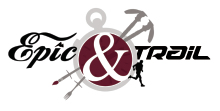
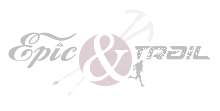
image en fond de label

Changed region(s): [[0.0273, 0.0541, 0.9545, 0.8919]]

diff --git a/epicchallenge.cpp b/epicchallenge.cpp
@@ -42,10 +42,33 @@ void EpicChallenge::init()
     m_cadenceur=new QTimer();
     t_0=QTime::currentTime();
 
-    QPalette sample_palette;
+    /*QPalette sample_palette;
     sample_palette.setColor(QPalette::Window, QColor(121,248,248,255));
     ui->challengeLabel->setAutoFillBackground(true);
-    ui->challengeLabel->setPalette(sample_palette);
+    ui->challengeLabel->setPalette(sample_palette);*/
+
+
+    // [1] The picture is not repeated, can be zoomed freely
+    ui->challengeLabel->setStyleSheet("QLabel{"
+                             "border-image:url(:/img/pictures/background.jpg) 4 4 4 4 stretch stretch;"
+                            "color:blue;"
+                             "}");
+/*
+         // [2] The picture is not repeated, the size is fixed
+    ui->label_2->setStyleSheet("QLabel{"
+                               "background-image:url(:/images/bd.png);"
+                               "background-position:top right;"
+                               "background-origin:content;"
+                               "background-repeat:none;"
+                               "}");*/
+/*
+         // [3] The picture is not repeated, the zoom ratio can be set, and the dynamic zoom is not allowed
+    QImage* img = new QImage;
+    img->load(QString(":/img/pictures/background.jpg"));
+    QImage scaledimg;
+    scaledimg = img->scaled(ui->challengeLabel->width(),ui->challengeLabel->height(),Qt::KeepAspectRatio);
+    ui->challengeLabel->setPixmap(QPixmap::fromImage(scaledimg));
+*/
 
     QString error_msg;
     if (statusFile_1*statusFile_2*statusFile_3==NOK)
@@ -263,6 +286,7 @@ unsigned char EpicChallenge::setDataBase()
         }
         else
         {
+            qDebug() << "Lecture du fichier des noms de coureurs";
             while (!file.atEnd())
             {
                 QString line = file.readLine();
